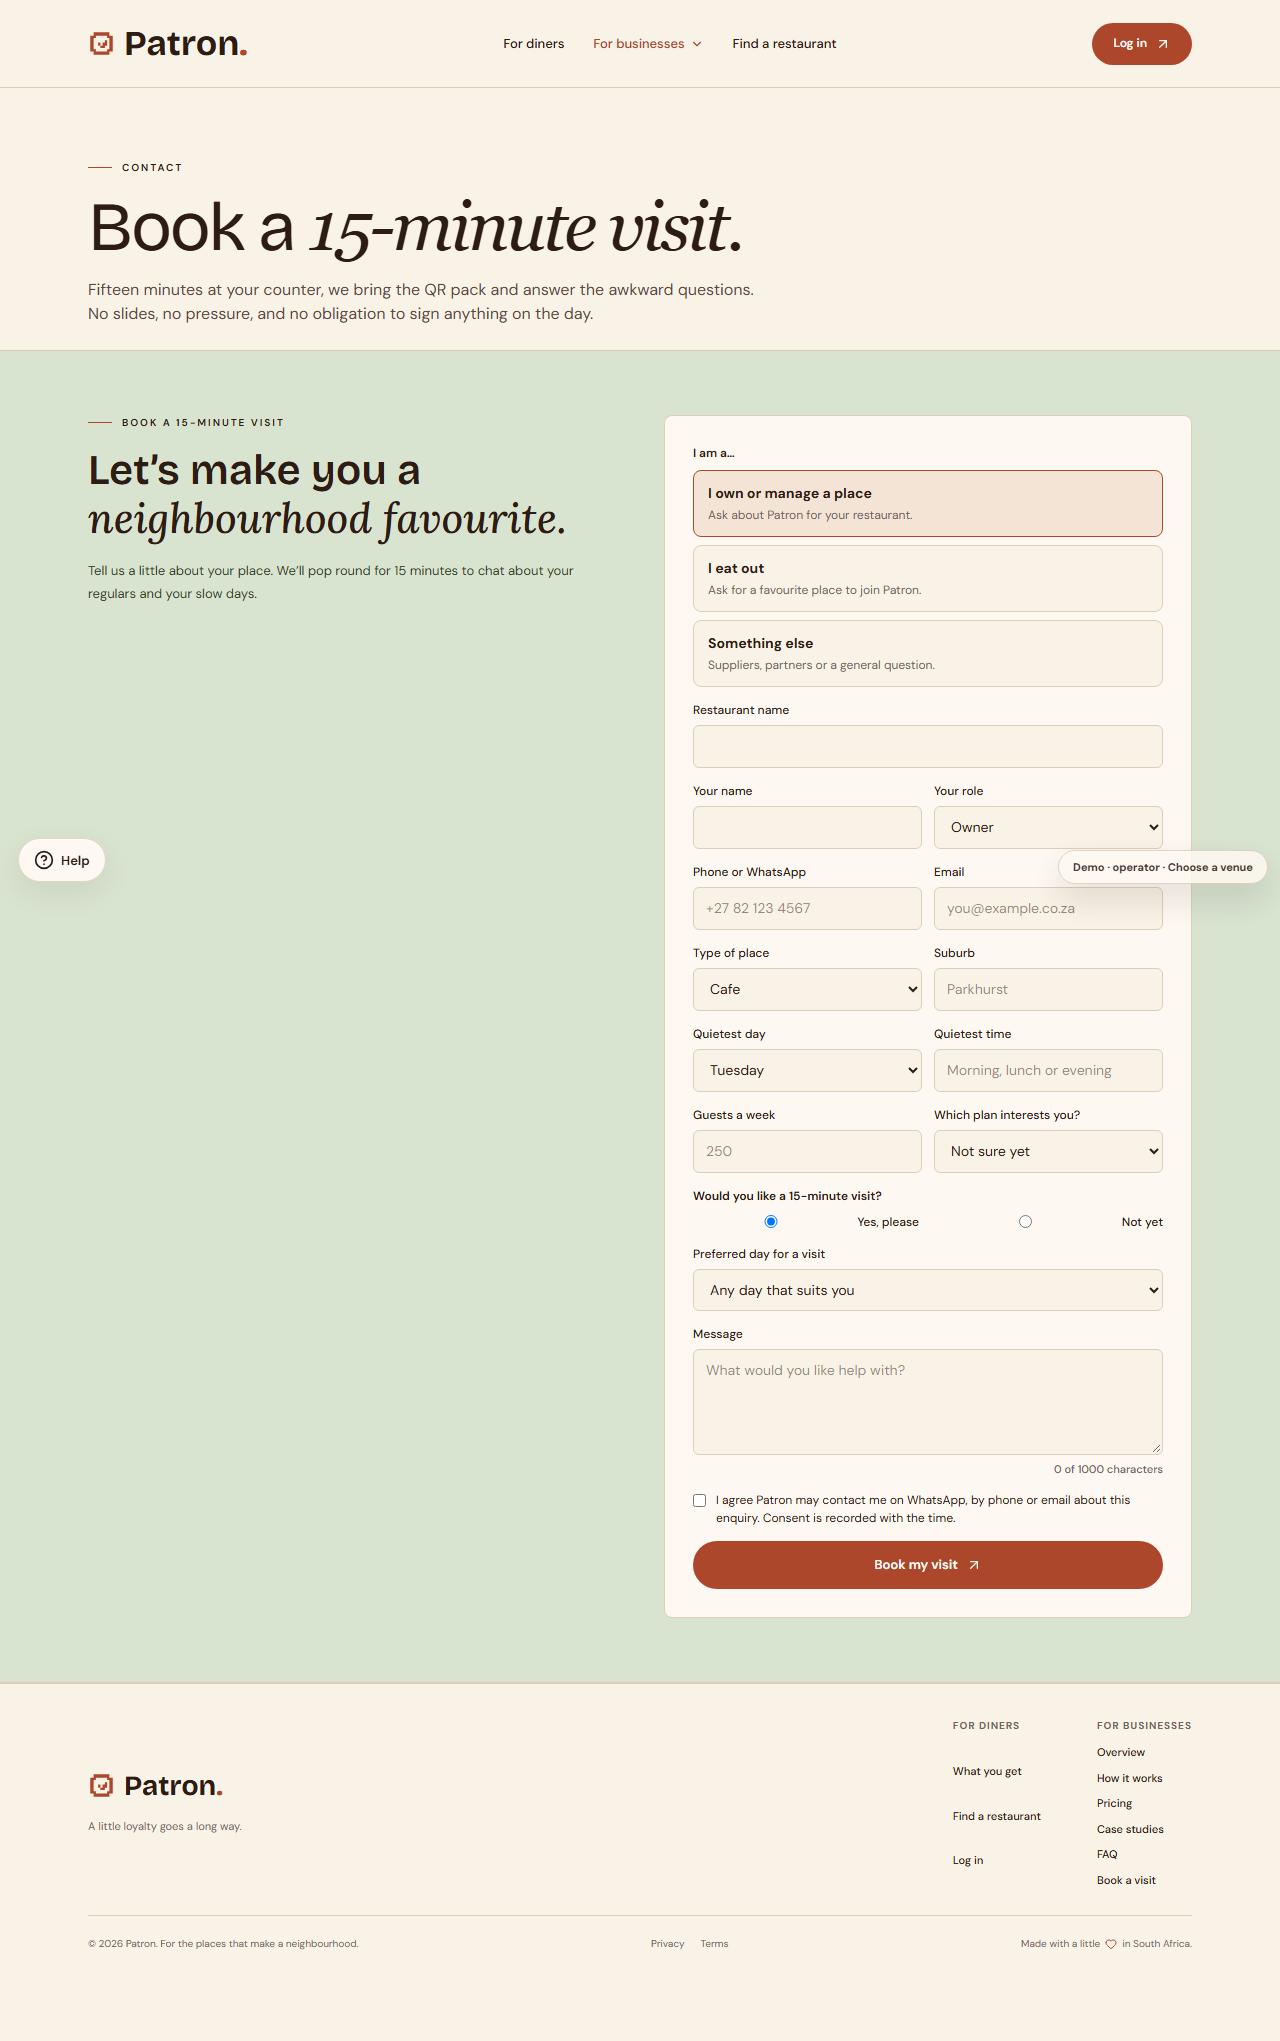
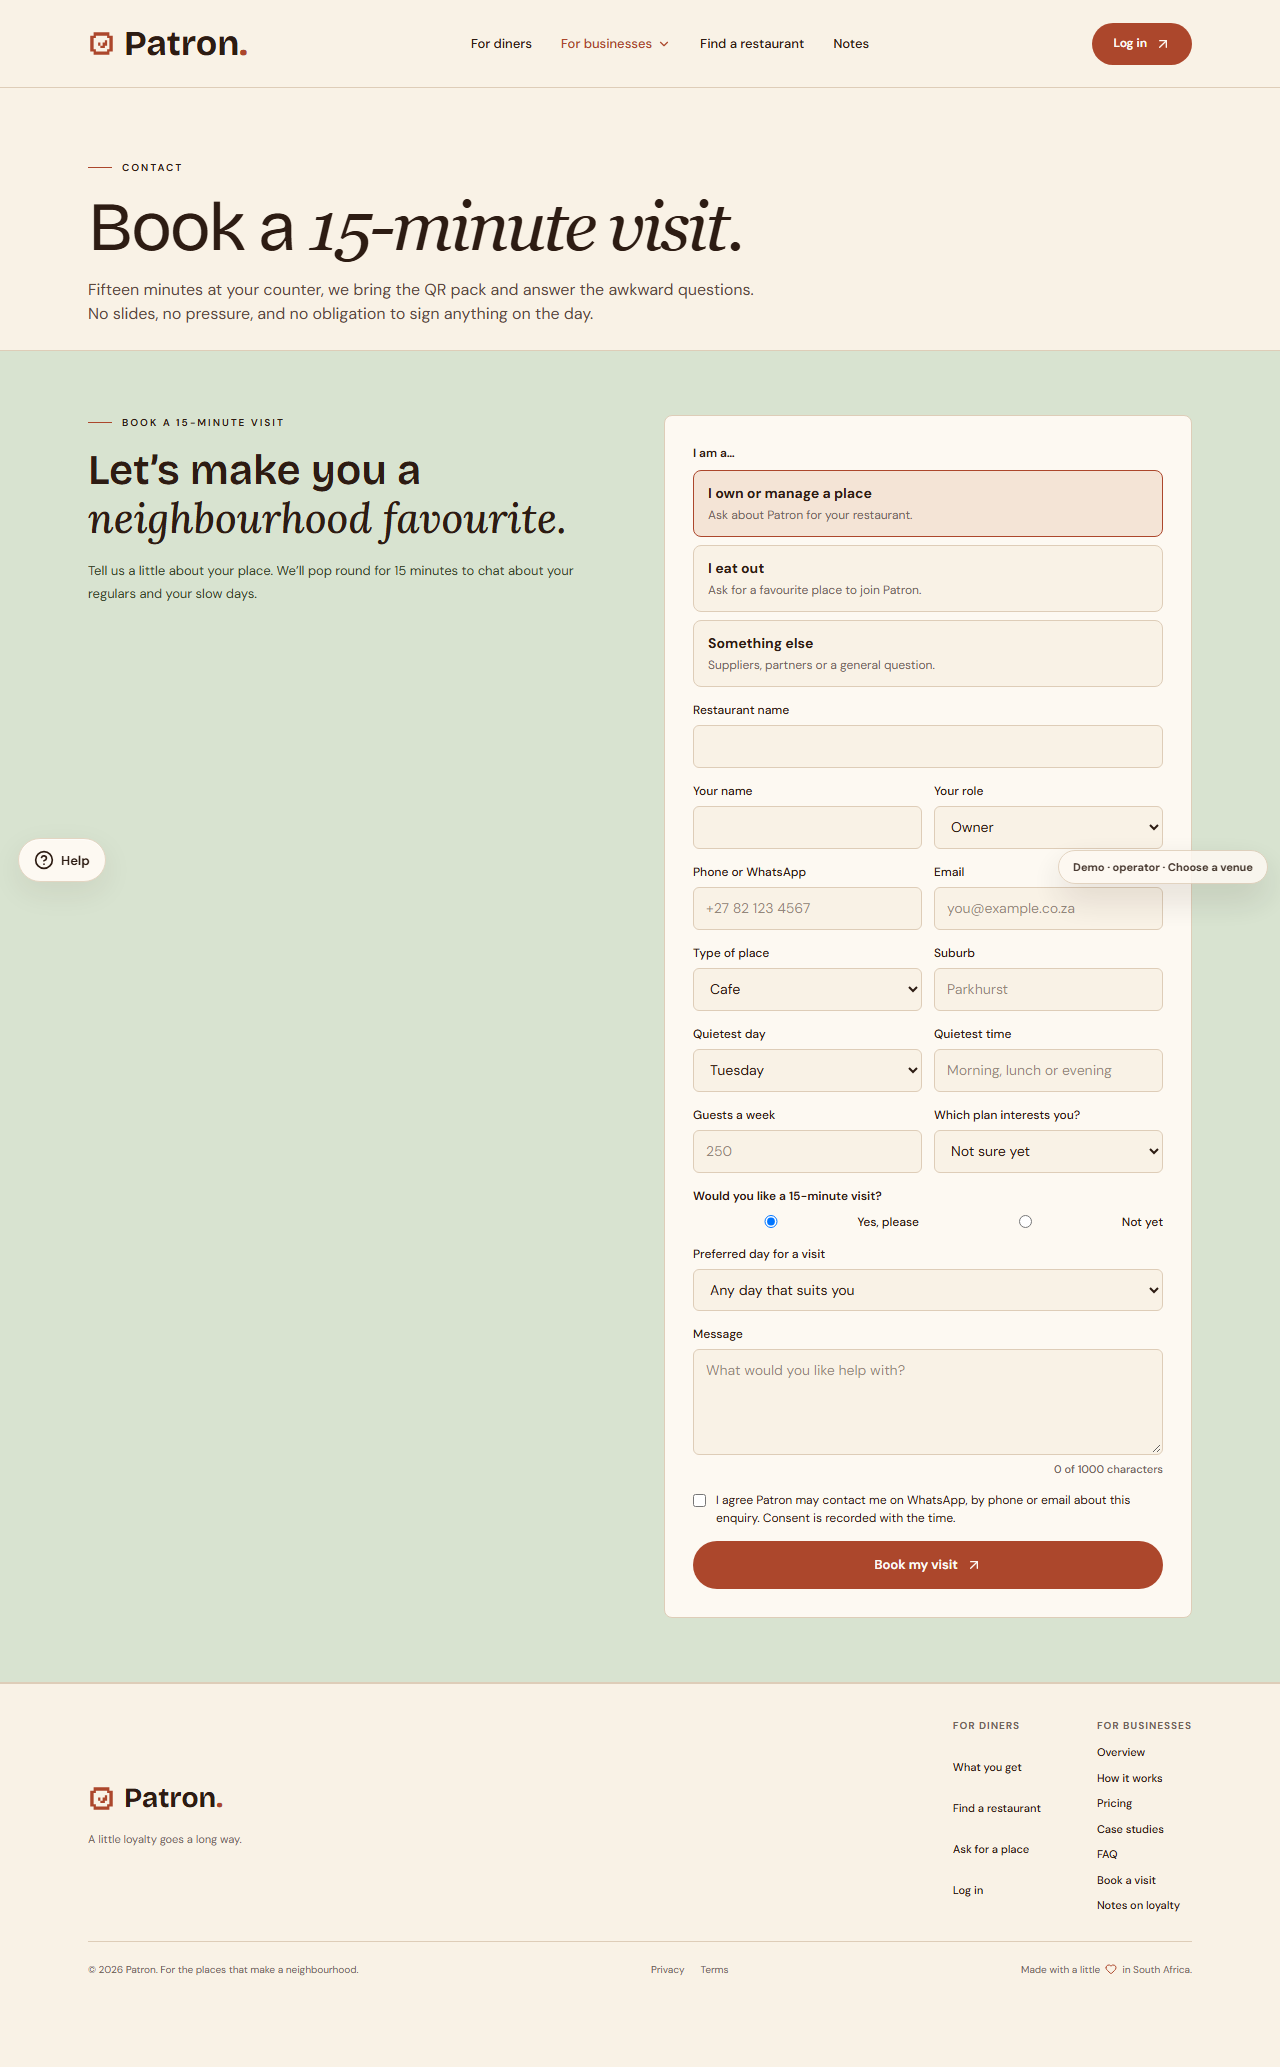
Refresh the verified screenshots, finish the docs and finish the audit glue
The two width walk now covers 38 screens, the walk report is ignored, the
blog and link audit tests are clean and Tasks completed.md records the
honest status for the presets, Ideas, blog and page audit pass.

🤖 Generated with Codebuff

diff --git a/src/test/blog.test.ts b/src/test/blog.test.ts
@@ -14,13 +14,15 @@ describe("blog data", () => {
     }
   });
 
-  it("avoids em dashes in titles and paragraphs", () => {
+  it("avoids long dashes in titles and paragraphs", () => {
+    // Guarded with escapes so this test file itself never carries one.
+    const dash = /[\u2014\u2013]/;
     for (const post of blogPosts) {
-      expect(post.title).not.toMatch(/[—–]/);
-      expect(post.excerpt).not.toMatch(/[—–]/);
+      expect(post.title).not.toMatch(dash);
+      expect(post.excerpt).not.toMatch(dash);
       for (const section of post.sections) {
         for (const paragraph of section.paragraphs) {
-          expect(paragraph).not.toMatch(/[—–]/);
+          expect(paragraph).not.toMatch(dash);
         }
       }
     }
@@ -39,7 +41,12 @@ describe("blog data", () => {
 describe("blog rss feed", () => {
   it("returns valid RSS XML for every post", async () => {
     const { Route } = await import("@/routes/blog/rss");
-    const handler = Route.options.server?.handlers?.GET;
+    // The typed route spins the handler record through several unions; for the
+    // test only the GET function shape matters.
+    const options = Route.options as unknown as {
+      server?: { handlers?: Record<string, (ctx: { request: Request }) => Promise<Response>> };
+    };
+    const handler = options.server?.handlers?.["GET"];
     expect(typeof handler).toBe("function");
     // Node 22 provides the global Request the server handlers use.
     const response = await handler!({ request: new Request("https://patron.example/blog/rss") });
@@ -51,6 +58,6 @@ describe("blog rss feed", () => {
       expect(xml).toContain(post.title);
       expect(xml).toContain(`/blog/${post.slug}`);
     }
-    expect(xml).not.toMatch(/[—–]/);
+    expect(xml).not.toMatch(/[\u2014\u2013]/);
   });
 });

diff --git a/src/test/link-audit.test.ts b/src/test/link-audit.test.ts
@@ -25,7 +25,7 @@ describe("link audit library", () => {
       '<Link to="/find" />',
       '<Link to="$slug" />',
     ].join("\n");
-    const targets = collectLinkTargets(live).map((item) => item.href);
+    const targets = collectLinkTargets(live).map((item: { href: string }) => item.href);
     expect(targets).toEqual(["/blog", "/find"]);
   });
 
@@ -50,9 +50,9 @@ describe("link audit over the repo", () => {
   it.runIf(fs.existsSync(genPath))("reports no dead internal links in src", () => {
     const report = runAudit(process.cwd());
     expect(report.checked).toBeGreaterThan(50);
-    expect(
-      report.violations,
-      report.violations.map((finding) => `${finding.file}:${finding.line} ${finding.href}`).join("\n"),
-    ).toEqual([]);
+    const findings: string[] = report.violations.map(
+      (finding: { file: string; line: number; href: string }) => `${finding.file}:${finding.line} ${finding.href}`,
+    );
+    expect(report.violations, findings.join("\n")).toEqual([]);
   });
 });

diff --git a/Tasks completed.md b/Tasks completed.md
@@ -266,3 +266,50 @@ Verification on the final commit:
 - Screenshots: the loyalty page (owner tools panel) and the guest card at
    375px and 1280px, via `scripts/shot-verify.mjs`. No element crossed the
    viewport, no console errors on either screen.
+
+## Presets, owner editing, Ideas, blog and page audit pass (fourth request)
+
+Status per item, checked against what already existed before each one was
+built:
+
+1. Reward presets: new. `/app/loyalty` gained a presets section with the
+   miss-you rule and hand-out rewards, beside the loyalty tools panel, in the
+   same Draft, Preview and Publish flow. Commit `0948a56`.
+2. Owner editing of the public page: new. `/app/page` lets the owner edit
+   their public page with preview, publish and version history. Draft and
+   preview never touch live data; Publish is the only write. Commit `aa6955d`.
+3. Ideas (guest suggestions): new. The smart message suggestions in
+   `src/domain/suggestions.ts` already existed, so the new feature is called
+   Ideas in code and in the navigation. Guests ask for their favourite place
+   or feature on the card, owners see the board with counts at `/app/ideas`,
+   and Patron staff see the operator inbox at `/ops/ideas`. Demo repo and
+   tests for counting and status changes. Commit `f4699ac`.
+4. Blog: new. `/blog` with three notes, one note each at `/blog/{slug}` and
+   an RSS feed at `/blog/rss`, plain data in `src/data/blog.ts` and a plan in
+   `docs/blog-plan.md` for the next notes. Linked from the header, footer and
+   the Ideas page. Commit `9e17a85`.
+5. Page audit: new. `scripts/link-audit.mjs` walks the route tree and the blog
+   data and `src/test/link-audit.test.ts` fails on any internal link without a
+   matching route, plus a test that every page renders without console errors
+   already existed in the routes audit and stays. Commit `78c294e`.
+
+Fix made in code, not by weakening a test:
+
+- The flat blog files made `blog.tsx` a layout rule, so `/blog/$slug`
+  rendered the list instead of the note. The routes now live in a
+  `src/routes/blog/` directory so the list, the note and the feed are
+  standalone routes. The blog tests then pointed at the new filenames and
+  two em dashes in the blog test text were replaced, found by the guard
+  test and the char check, never by loosening it.
+
+Verification on the final commit:
+
+- tsc: 0 errors.
+- eslint: 0 errors, 12 pre-existing warnings (shadcn/ui files, untouched).
+- vitest: 405 passed, 5 skipped (61 files passed, 2 skipped files are the
+  live-Postgres suites that need dev credentials; production never touched).
+- vite build: passes.
+- Screenshots: `scripts/shot-verify.mjs` grew its target list and the two
+  width walk now covers 38 screens, including the blog, the Ideas board and
+  inbox and the owner public page editor. No element crossed the viewport
+  and no console errors, so the walk ended clean.
